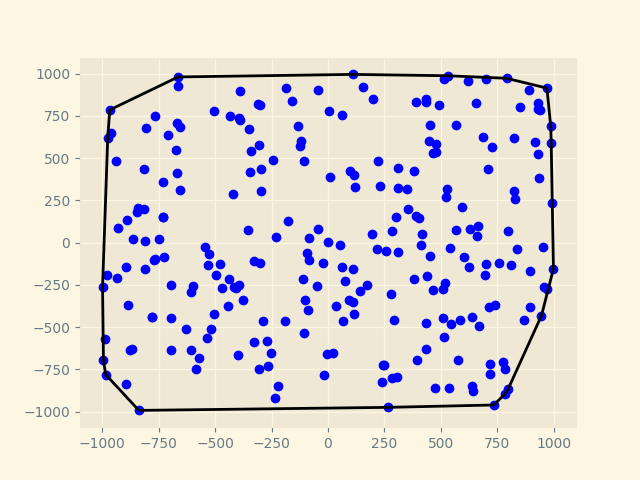
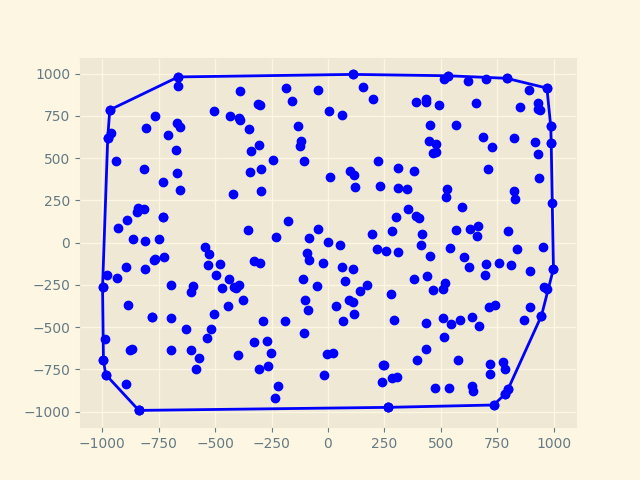
deleted skeleton of animation system

diff --git a/convexhull.py b/convexhull.py
@@ -3,7 +3,6 @@ import numpy as np
 from scipy import linalg
 from matplotlib.animation import FuncAnimation
 
-
 def load_data(fname: str) -> np.ndarray:
     coordinates = np.unique(np.genfromtxt(fname, delimiter=","), axis=0)
     return coordinates
@@ -40,7 +39,6 @@ def graham_scan(coordinates: np.ndarray) -> np.ndarray:
     sorted_points = coordinates.tolist()
     sorted_points.sort(key=lambda p: polar_angle_sort(p, starting_point))  # convert to python list to use custom sort
     sorted_points = np.array(sorted_points)
-    print(sorted_points)
     x, y = sorted_points.T
     plt.scatter(x, y, color='blue')
     plt.savefig('init.png')  # save an initial image of our points
@@ -54,40 +52,14 @@ def graham_scan(coordinates: np.ndarray) -> np.ndarray:
         hull.append(i.tolist())
 
     x, y = np.array(hull).T
-    plt.plot(x, y, color='black')
-    plt.plot((x[0], x[-1]), (y[0], y[-1]), 'black')
+    plt.plot(x, y, marker='o', color='blue')
+    plt.plot((x[0], x[-1]), (y[0], y[-1]), marker='o', color='blue')
     plt.savefig("hull.png")  # save initial image of convex hull
     return sorted_points
 
 
-def instructions(sorted_points: np.ndarray) -> dict:
-    instructions_list = {}
-    hull = []
-    j = 0
-    for i in range(0, len(sorted_points)):
-        while len(hull) > 2 and not is_left_turn(hull[-3], hull[-2], hull[-1]):
-            instructions_list[j] = "POP:"+str(hull[-2])
-            j += 1
-            hull.pop(-2)
-        hull.append(sorted_points[i].tolist())
-        instructions_list[j] = "PUSH:"+str(sorted_points[i])
-        j += 1
-    return instructions_list
-
-def call_animate(sorted_points: np.ndarray, hull: list):
-    fig = plt.figure()
-    ax = plt.subplot()
-    instructions_list = instructions(sorted_points)
-    anim = FuncAnimation(fig, animate, frame=np.arange(0,len(instructions_list)),
-                         fargs=instructions_list,)
-
-
-def animate(i: int, instructions_list: dict):
-    pass
-
 def main():
     c = load_data("/Users/johnma/PycharmProjects/Convex-hull-visualization/sample.csv")
     s = graham_scan(c)
-    i = instructions(s)
-    print(i)
+
 main()

diff --git a/dialog.py b/dialog.py
@@ -3,7 +3,6 @@ from PyQt5.QtGui import QPixmap
 import convexhull
 import sys
 
-import numpy as np
 from PyQt5 import uic
 from PyQt5.QtWidgets import QMainWindow, QApplication, QPushButton, QFileDialog, QLabel
 
@@ -32,6 +31,7 @@ class UI(QMainWindow):
         convexhull.graham_scan(coordinates)
         pixmap = QPixmap("hull.png")
         self.display.setPixmap(pixmap)
+
 
 app = QApplication(sys.argv)
 UIWindow = UI()
